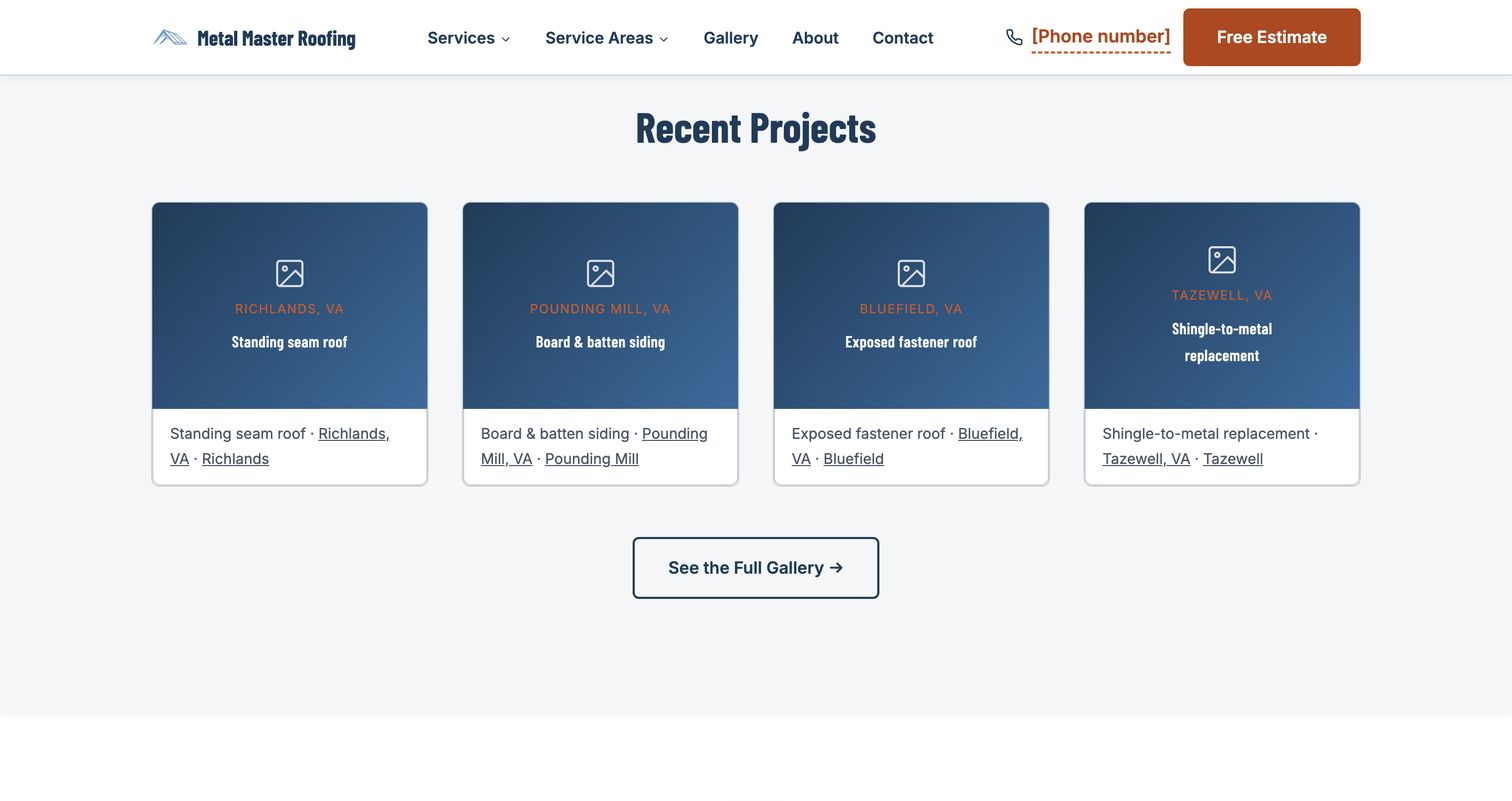
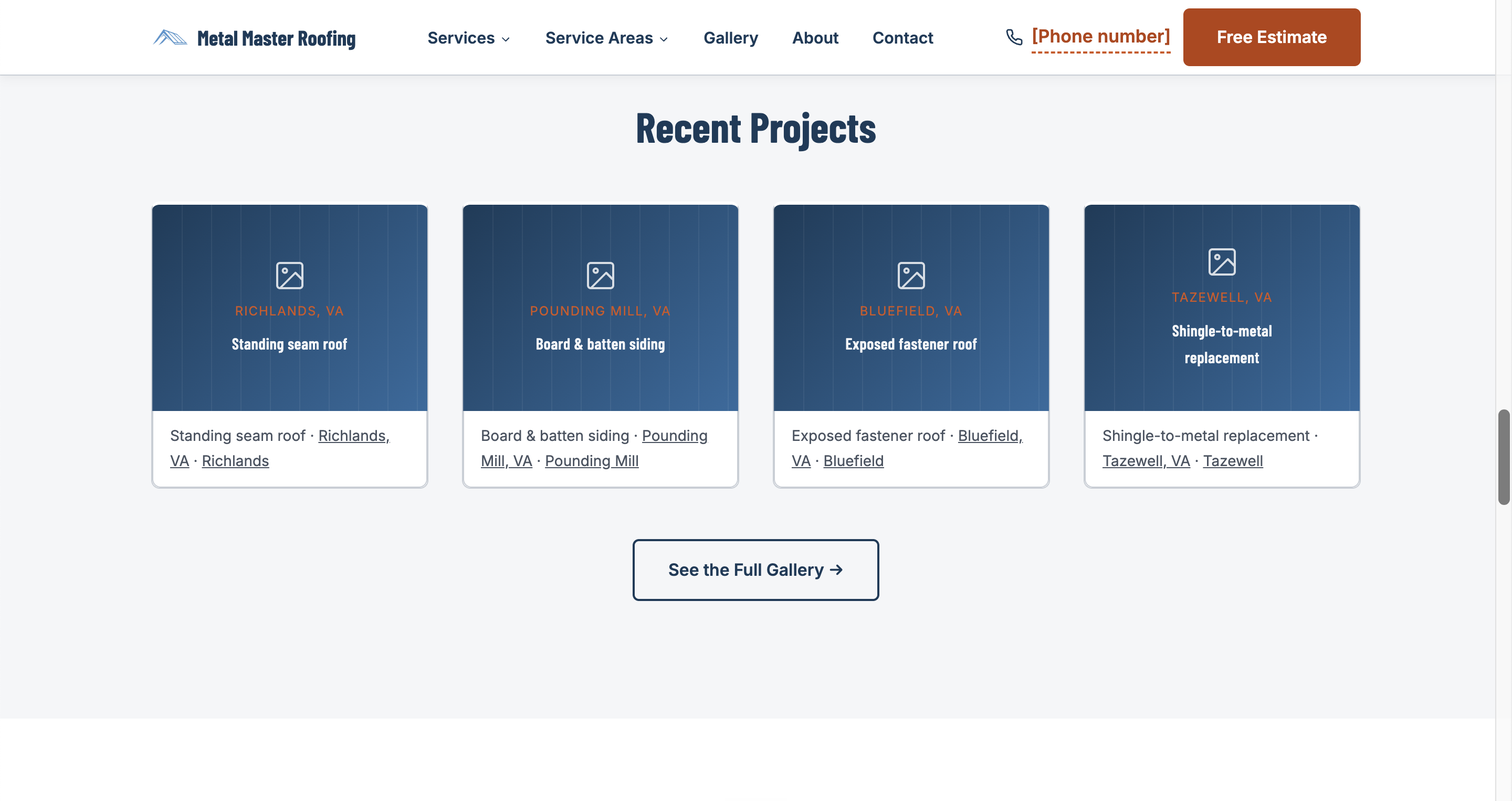
Add standing-seam texture to dark sections and photo placeholders
Reference-only design research (roofing site design conventions,
open-source landing page patterns) confirmed a real hero photo is
what actually matters and we're blocked on that pending owner photos.
In the meantime: replace flat gradient placeholders with a subtle
vertical rib-line texture evoking standing-seam metal panels, applied
to the hero, footer, and all photo placeholder cards. Ties the empty
states back to the actual product instead of reading as generic
"coming soon" boxes. Also adds an accent-colored top border on card
hover for a bit more polish.

diff --git a/site/dist/index.html b/site/dist/index.html
@@ -18,7 +18,7 @@
 <meta property="og:site_name" content="Metal Master Roofing and Construction">
 <link rel="preconnect" href="https://fonts.googleapis.com">
 <link href="https://fonts.googleapis.com/css2?family=Barlow+Condensed:wght@600;700&family=Inter:wght@400;600;700&display=swap" rel="stylesheet">
-<link rel="stylesheet" href="/css/styles.css?v=1785223712">
+<link rel="stylesheet" href="/css/styles.css?v=1785224681">
 <script type="application/ld+json">{"@context": "https://schema.org", "@type": "RoofingContractor", "@id": "https://{{DOMAIN}}/#business", "name": "Metal Master Roofing and Construction", "alternateName": "Metal Master Roofing", "url": "https://{{DOMAIN}}/", "image": "https://{{DOMAIN}}/images/og/og-default.jpg", "description": "Metal roofing, metal siding, and board and batten installation for residential and light commercial properties across Tazewell County, Virginia. Family owned, licensed and insured. Free estimates.", "sameAs": ["https://www.facebook.com/people/Metal-Master-Roofing-and-Construction/61562911080390/"], "areaServed": [{"@type": "AdministrativeArea", "name": "Tazewell County, Virginia"}, {"@type": "City", "name": "Bluefield", "addressRegion": "VA"}, {"@type": "City", "name": "Richlands", "addressRegion": "VA"}, {"@type": "City", "name": "Pounding Mill", "addressRegion": "VA"}, {"@type": "City", "name": "Tazewell", "addressRegion": "VA"}, {"@type": "City", "name": "Cedar Bluff", "addressRegion": "VA"}, {"@type": "City", "name": "North Tazewell", "addressRegion": "VA"}, {"@type": "City", "name": "Claypool Hill", "addressRegion": "VA"}, {"@type": "City", "name": "Raven", "addressRegion": "VA"}], "slogan": "Free estimates. Licensed and insured. Local."}</script>
   <script type="application/ld+json">{"@context": "https://schema.org", "@type": "WebSite", "@id": "https://{{DOMAIN}}/#website", "url": "https://{{DOMAIN}}/", "name": "Metal Master Roofing and Construction", "inLanguage": "en-US"}</script>
   <script type="application/ld+json">{"@context": "https://schema.org", "@type": "FAQPage", "mainEntity": [{"@type": "Question", "name": "How much does a metal roof cost around here?", "acceptedAnswer": {"@type": "Answer", "text": "It depends on panel type, roof pitch, and how many valleys and penetrations you've got, but we'll give you a real range on the phone and an exact written number after we measure. We don't hide behind \u201cit depends\u201d \u2014 ask us."}}, {"@type": "Question", "name": "Can you put a metal roof over my existing shingles?", "acceptedAnswer": {"@type": "Answer", "text": "Often, yes \u2014 it depends on your local code, how many layers are already up there, and the condition of the decking underneath. We'll tell you straight during the estimate whether your roof is a candidate or whether a tear-off makes more sense."}}, {"@type": "Question", "name": "How long does a metal roof last?", "acceptedAnswer": {"@type": "Answer", "text": "A properly installed metal roof in this area typically runs 40 to 70 years, depending on the panel type and finish. That's two to three asphalt roofs in the same time."}}, {"@type": "Question", "name": "Are metal roofs loud in the rain?", "acceptedAnswer": {"@type": "Answer", "text": "Not on a house. The tin-roof-in-a-thunderstorm sound people remember comes from panels screwed onto open purlins with nothing underneath, like on an old barn. On a house with solid decking and underlayment, a metal roof is about as loud as shingles."}}, {"@type": "Question", "name": "Do you do commercial work?", "acceptedAnswer": {"@type": "Answer", "text": "Yes \u2014 smaller-scale commercial, up to $150,000. Churches, shops, storefronts, small offices, and farm buildings are all in our range."}}, {"@type": "Question", "name": "How far do you travel?", "acceptedAnswer": {"@type": "Answer", "text": "We're based in the Bluefield\u2013Richlands\u2013Pounding Mill area and work throughout Tazewell County and into nearby West Virginia. If you're not sure whether you're in range, call us."}}]}</script>
@@ -335,6 +335,6 @@
     <span class="call" title="Phone not yet confirmed"><svg viewBox="0 0 24 24" fill="none" stroke="currentColor" stroke-width="2" stroke-linecap="round" stroke-linejoin="round"><path d="M22 16.92v3a2 2 0 0 1-2.18 2 19.79 19.79 0 0 1-8.63-3.07 19.5 19.5 0 0 1-6-6 19.79 19.79 0 0 1-3.07-8.67A2 2 0 0 1 4.11 2h3a2 2 0 0 1 2 1.72c.127.96.361 1.903.7 2.81a2 2 0 0 1-.45 2.11L8.09 9.91a16 16 0 0 0 6 6l1.27-1.27a2 2 0 0 1 2.11-.45c.907.339 1.85.573 2.81.7A2 2 0 0 1 22 16.92z"/></svg>Call Now</span>
     <a class="estimate" href="/free-estimate/">Free Estimate</a>
   </div>
-<script src="/js/main.js?v=1785223712" defer></script>
+<script src="/js/main.js?v=1785224681" defer></script>
 </body>
 </html>

diff --git a/site/dist/css/styles.css b/site/dist/css/styles.css
@@ -174,7 +174,14 @@ section { padding: var(--space-8) 0; }
 .header-phone svg { width: 1em; height: 1em; }
 
 /* Hero */
-.hero { position: relative; display: flex; align-items: flex-end; min-height: 60vh; color: var(--white); background: linear-gradient(rgba(20,32,47,0.82), rgba(20,32,47,0.6)), var(--navy-900); background-size: cover; background-position: center; }
+.hero {
+  position: relative; display: flex; align-items: flex-end; min-height: 60vh; color: var(--white);
+  background:
+    linear-gradient(rgba(20,32,47,0.82), rgba(20,32,47,0.6)),
+    repeating-linear-gradient(90deg, rgba(255,255,255,.05) 0, rgba(255,255,255,.05) 1px, transparent 1px, transparent 56px),
+    var(--navy-900);
+  background-size: cover, auto, cover; background-position: center;
+}
 @media (min-width: 1024px) { .hero { min-height: 75vh; } }
 .hero-inner { padding: var(--space-8) 0; width: 100%; }
 .hero h1 { color: var(--white); max-width: 900px; }
@@ -202,8 +209,8 @@ section { padding: var(--space-8) 0; }
 @media (min-width: 640px) { .grid-2 { grid-template-columns: repeat(2, 1fr); } .grid-4 { grid-template-columns: repeat(2, 1fr); } }
 @media (min-width: 1024px) { .grid-3 { grid-template-columns: repeat(3, 1fr); } .grid-4 { grid-template-columns: repeat(4, 1fr); } }
 
-.card { background: var(--white); border: 1px solid var(--steel-300); border-radius: var(--radius-lg); overflow: hidden; transition: transform 150ms ease, box-shadow 150ms ease; display: flex; flex-direction: column; }
-.card:hover { transform: translateY(-4px); box-shadow: 0 12px 24px rgba(0,0,0,.10); }
+.card { background: var(--white); border: 1px solid var(--steel-300); border-top: 3px solid transparent; border-radius: var(--radius-lg); overflow: hidden; transition: transform 150ms ease, box-shadow 150ms ease, border-top-color 150ms ease; display: flex; flex-direction: column; }
+.card:hover { transform: translateY(-4px); box-shadow: 0 12px 24px rgba(0,0,0,.10); border-top-color: var(--accent-600); }
 .card-body { padding: var(--space-5); display: flex; flex-direction: column; gap: var(--space-2); flex: 1; }
 .card h3 { margin-bottom: 0; }
 .card p { color: var(--steel-600); margin-bottom: var(--space-3); flex: 1; }
@@ -216,7 +223,9 @@ section { padding: var(--space-8) 0; }
 .photo-ph {
   aspect-ratio: 16 / 10; width: 100%; display: flex; flex-direction: column; align-items: center; justify-content: center;
   gap: var(--space-2); text-align: center; padding: var(--space-4);
-  background: linear-gradient(135deg, var(--navy-800), var(--navy-600));
+  background:
+    repeating-linear-gradient(90deg, rgba(255,255,255,.06) 0, rgba(255,255,255,.06) 1px, transparent 1px, transparent 28px),
+    linear-gradient(135deg, var(--navy-800), var(--navy-600));
   color: var(--steel-100); position: relative; overflow: hidden;
 }
 .photo-ph.ratio-4-3 { aspect-ratio: 4 / 3; }
@@ -284,7 +293,12 @@ section { padding: var(--space-8) 0; }
 .dev-banner a { color: var(--white); text-decoration: underline; }
 
 /* Footer */
-.site-footer { background: var(--navy-900); color: var(--steel-300); }
+.site-footer {
+  background:
+    repeating-linear-gradient(90deg, rgba(255,255,255,.04) 0, rgba(255,255,255,.04) 1px, transparent 1px, transparent 56px),
+    var(--navy-900);
+  color: var(--steel-300);
+}
 .footer-grid { display: grid; gap: var(--space-7); grid-template-columns: 1fr; padding: var(--space-8) 0 var(--space-6); }
 @media (min-width: 768px) { .footer-grid { grid-template-columns: 1.4fr 1fr 1fr 1fr; } }
 .footer-grid h4 { color: var(--white); font-size: 1rem; margin-bottom: var(--space-4); }

diff --git a/site/static/css/styles.css b/site/static/css/styles.css
@@ -174,7 +174,14 @@ section { padding: var(--space-8) 0; }
 .header-phone svg { width: 1em; height: 1em; }
 
 /* Hero */
-.hero { position: relative; display: flex; align-items: flex-end; min-height: 60vh; color: var(--white); background: linear-gradient(rgba(20,32,47,0.82), rgba(20,32,47,0.6)), var(--navy-900); background-size: cover; background-position: center; }
+.hero {
+  position: relative; display: flex; align-items: flex-end; min-height: 60vh; color: var(--white);
+  background:
+    linear-gradient(rgba(20,32,47,0.82), rgba(20,32,47,0.6)),
+    repeating-linear-gradient(90deg, rgba(255,255,255,.05) 0, rgba(255,255,255,.05) 1px, transparent 1px, transparent 56px),
+    var(--navy-900);
+  background-size: cover, auto, cover; background-position: center;
+}
 @media (min-width: 1024px) { .hero { min-height: 75vh; } }
 .hero-inner { padding: var(--space-8) 0; width: 100%; }
 .hero h1 { color: var(--white); max-width: 900px; }
@@ -202,8 +209,8 @@ section { padding: var(--space-8) 0; }
 @media (min-width: 640px) { .grid-2 { grid-template-columns: repeat(2, 1fr); } .grid-4 { grid-template-columns: repeat(2, 1fr); } }
 @media (min-width: 1024px) { .grid-3 { grid-template-columns: repeat(3, 1fr); } .grid-4 { grid-template-columns: repeat(4, 1fr); } }
 
-.card { background: var(--white); border: 1px solid var(--steel-300); border-radius: var(--radius-lg); overflow: hidden; transition: transform 150ms ease, box-shadow 150ms ease; display: flex; flex-direction: column; }
-.card:hover { transform: translateY(-4px); box-shadow: 0 12px 24px rgba(0,0,0,.10); }
+.card { background: var(--white); border: 1px solid var(--steel-300); border-top: 3px solid transparent; border-radius: var(--radius-lg); overflow: hidden; transition: transform 150ms ease, box-shadow 150ms ease, border-top-color 150ms ease; display: flex; flex-direction: column; }
+.card:hover { transform: translateY(-4px); box-shadow: 0 12px 24px rgba(0,0,0,.10); border-top-color: var(--accent-600); }
 .card-body { padding: var(--space-5); display: flex; flex-direction: column; gap: var(--space-2); flex: 1; }
 .card h3 { margin-bottom: 0; }
 .card p { color: var(--steel-600); margin-bottom: var(--space-3); flex: 1; }
@@ -216,7 +223,9 @@ section { padding: var(--space-8) 0; }
 .photo-ph {
   aspect-ratio: 16 / 10; width: 100%; display: flex; flex-direction: column; align-items: center; justify-content: center;
   gap: var(--space-2); text-align: center; padding: var(--space-4);
-  background: linear-gradient(135deg, var(--navy-800), var(--navy-600));
+  background:
+    repeating-linear-gradient(90deg, rgba(255,255,255,.06) 0, rgba(255,255,255,.06) 1px, transparent 1px, transparent 28px),
+    linear-gradient(135deg, var(--navy-800), var(--navy-600));
   color: var(--steel-100); position: relative; overflow: hidden;
 }
 .photo-ph.ratio-4-3 { aspect-ratio: 4 / 3; }
@@ -284,7 +293,12 @@ section { padding: var(--space-8) 0; }
 .dev-banner a { color: var(--white); text-decoration: underline; }
 
 /* Footer */
-.site-footer { background: var(--navy-900); color: var(--steel-300); }
+.site-footer {
+  background:
+    repeating-linear-gradient(90deg, rgba(255,255,255,.04) 0, rgba(255,255,255,.04) 1px, transparent 1px, transparent 56px),
+    var(--navy-900);
+  color: var(--steel-300);
+}
 .footer-grid { display: grid; gap: var(--space-7); grid-template-columns: 1fr; padding: var(--space-8) 0 var(--space-6); }
 @media (min-width: 768px) { .footer-grid { grid-template-columns: 1.4fr 1fr 1fr 1fr; } }
 .footer-grid h4 { color: var(--white); font-size: 1rem; margin-bottom: var(--space-4); }

diff --git a/site/dist/service-areas/bluefield-va/index.html b/site/dist/service-areas/bluefield-va/index.html
@@ -18,7 +18,7 @@
 <meta property="og:site_name" content="Metal Master Roofing and Construction">
 <link rel="preconnect" href="https://fonts.googleapis.com">
 <link href="https://fonts.googleapis.com/css2?family=Barlow+Condensed:wght@600;700&family=Inter:wght@400;600;700&display=swap" rel="stylesheet">
-<link rel="stylesheet" href="/css/styles.css?v=1785223712">
+<link rel="stylesheet" href="/css/styles.css?v=1785224681">
 <script type="application/ld+json">{"@context": "https://schema.org", "@type": "WebPage", "url": "https://{{DOMAIN}}/service-areas/bluefield-va/", "name": "Metal Roofing Bluefield, VA | Metal Roofs & Siding | Metal Master Roofing", "description": "Metal roofing, siding & board and batten in Bluefield, VA. Local, family owned, licensed & insured. Free estimates. Free estimates \u2014 contact us today.", "about": {"@id": "https://{{DOMAIN}}/#business"}, "isPartOf": {"@id": "https://{{DOMAIN}}/#website"}}</script>
   <script type="application/ld+json">{"@context": "https://schema.org", "@type": "BreadcrumbList", "itemListElement": [{"@type": "ListItem", "position": 1, "name": "Home", "item": "https://{{DOMAIN}}/"}, {"@type": "ListItem", "position": 2, "name": "Service Areas", "item": "https://{{DOMAIN}}/service-areas/"}, {"@type": "ListItem", "position": 3, "name": "Bluefield, VA", "item": "https://{{DOMAIN}}/service-areas/bluefield-va/"}]}</script>
   <script type="application/ld+json">{"@context": "https://schema.org", "@type": "FAQPage", "mainEntity": [{"@type": "Question", "name": "Do you serve both Bluefield, VA and Bluefield, WV?", "acceptedAnswer": {"@type": "Answer", "text": "Yes \u2014 we work both sides of the state line. See our Bluefield, WV page for that side specifically."}}, {"@type": "Question", "name": "Does Bluefield's elevation affect roofing choices?", "acceptedAnswer": {"@type": "Answer", "text": "Yes \u2014 colder temperatures and more snow make a metal roof's durability and snow-shedding surface a stronger fit than in lower, milder parts of the county."}}, {"@type": "Question", "name": "How far is Bluefield from your other service areas?", "acceptedAnswer": {"@type": "Answer", "text": "Close \u2014 we're regularly in Bluefield, Richlands, Pounding Mill, and Tazewell, all within the same general drive."}}, {"@type": "Question", "name": "Do you work on older Bluefield homes?", "acceptedAnswer": {"@type": "Answer", "text": "Yes \u2014 we regularly assess older decking and roof structures before recommending a repair or full replacement."}}]}</script>
@@ -232,6 +232,6 @@
     <span class="call" title="Phone not yet confirmed"><svg viewBox="0 0 24 24" fill="none" stroke="currentColor" stroke-width="2" stroke-linecap="round" stroke-linejoin="round"><path d="M22 16.92v3a2 2 0 0 1-2.18 2 19.79 19.79 0 0 1-8.63-3.07 19.5 19.5 0 0 1-6-6 19.79 19.79 0 0 1-3.07-8.67A2 2 0 0 1 4.11 2h3a2 2 0 0 1 2 1.72c.127.96.361 1.903.7 2.81a2 2 0 0 1-.45 2.11L8.09 9.91a16 16 0 0 0 6 6l1.27-1.27a2 2 0 0 1 2.11-.45c.907.339 1.85.573 2.81.7A2 2 0 0 1 22 16.92z"/></svg>Call Now</span>
     <a class="estimate" href="/free-estimate/">Free Estimate</a>
   </div>
-<script src="/js/main.js?v=1785223712" defer></script>
+<script src="/js/main.js?v=1785224681" defer></script>
 </body>
 </html>

diff --git a/site/dist/service-areas/richlands-va/index.html b/site/dist/service-areas/richlands-va/index.html
@@ -18,7 +18,7 @@
 <meta property="og:site_name" content="Metal Master Roofing and Construction">
 <link rel="preconnect" href="https://fonts.googleapis.com">
 <link href="https://fonts.googleapis.com/css2?family=Barlow+Condensed:wght@600;700&family=Inter:wght@400;600;700&display=swap" rel="stylesheet">
-<link rel="stylesheet" href="/css/styles.css?v=1785223712">
+<link rel="stylesheet" href="/css/styles.css?v=1785224681">
 <script type="application/ld+json">{"@context": "https://schema.org", "@type": "WebPage", "url": "https://{{DOMAIN}}/service-areas/richlands-va/", "name": "Metal Roofing Richlands, VA | Metal Roofs & Siding | Metal Master Roofing", "description": "Metal roofing, siding & board and batten in Richlands, VA. Local, family owned, licensed & insured. Free estimates. Free estimates \u2014 contact us today.", "about": {"@id": "https://{{DOMAIN}}/#business"}, "isPartOf": {"@id": "https://{{DOMAIN}}/#website"}}</script>
   <script type="application/ld+json">{"@context": "https://schema.org", "@type": "BreadcrumbList", "itemListElement": [{"@type": "ListItem", "position": 1, "name": "Home", "item": "https://{{DOMAIN}}/"}, {"@type": "ListItem", "position": 2, "name": "Service Areas", "item": "https://{{DOMAIN}}/service-areas/"}, {"@type": "ListItem", "position": 3, "name": "Richlands, VA", "item": "https://{{DOMAIN}}/service-areas/richlands-va/"}]}</script>
   <script type="application/ld+json">{"@context": "https://schema.org", "@type": "FAQPage", "mainEntity": [{"@type": "Question", "name": "Does the river valley affect roofing in Richlands?", "acceptedAnswer": {"@type": "Answer", "text": "Yes \u2014 higher humidity and morning fog are harder on aging roofs than in higher, drier parts of the county, which is part of why we check decking condition closely here."}}, {"@type": "Question", "name": "Do you work on older coal-era homes in Richlands?", "acceptedAnswer": {"@type": "Answer", "text": "Regularly \u2014 a lot of Richlands housing dates to that era, and we know what to look for underneath."}}, {"@type": "Question", "name": "Do you do commercial work near the hospital corridor?", "acceptedAnswer": {"@type": "Answer", "text": "Yes \u2014 small commercial and storefront roofing up to $150,000."}}, {"@type": "Question", "name": "How far is Richlands from your home base?", "acceptedAnswer": {"@type": "Answer", "text": "About twenty minutes from Pounding Mill \u2014 we're in Richlands constantly."}}]}</script>
@@ -229,6 +229,6 @@
     <span class="call" title="Phone not yet confirmed"><svg viewBox="0 0 24 24" fill="none" stroke="currentColor" stroke-width="2" stroke-linecap="round" stroke-linejoin="round"><path d="M22 16.92v3a2 2 0 0 1-2.18 2 19.79 19.79 0 0 1-8.63-3.07 19.5 19.5 0 0 1-6-6 19.79 19.79 0 0 1-3.07-8.67A2 2 0 0 1 4.11 2h3a2 2 0 0 1 2 1.72c.127.96.361 1.903.7 2.81a2 2 0 0 1-.45 2.11L8.09 9.91a16 16 0 0 0 6 6l1.27-1.27a2 2 0 0 1 2.11-.45c.907.339 1.85.573 2.81.7A2 2 0 0 1 22 16.92z"/></svg>Call Now</span>
     <a class="estimate" href="/free-estimate/">Free Estimate</a>
   </div>
-<script src="/js/main.js?v=1785223712" defer></script>
+<script src="/js/main.js?v=1785224681" defer></script>
 </body>
 </html>

diff --git a/site/dist/service-areas/pounding-mill-va/index.html b/site/dist/service-areas/pounding-mill-va/index.html
@@ -18,7 +18,7 @@
 <meta property="og:site_name" content="Metal Master Roofing and Construction">
 <link rel="preconnect" href="https://fonts.googleapis.com">
 <link href="https://fonts.googleapis.com/css2?family=Barlow+Condensed:wght@600;700&family=Inter:wght@400;600;700&display=swap" rel="stylesheet">
-<link rel="stylesheet" href="/css/styles.css?v=1785223712">
+<link rel="stylesheet" href="/css/styles.css?v=1785224681">
 <script type="application/ld+json">{"@context": "https://schema.org", "@type": "WebPage", "url": "https://{{DOMAIN}}/service-areas/pounding-mill-va/", "name": "Metal Roofing Pounding Mill, VA | Metal Roofs & Siding | Metal Master Roofing", "description": "Metal roofing, siding & board and batten in Pounding Mill, VA. Local, family owned, licensed & insured. Free estimates. Free estimates \u2014 contact us today.", "about": {"@id": "https://{{DOMAIN}}/#business"}, "isPartOf": {"@id": "https://{{DOMAIN}}/#website"}}</script>
   <script type="application/ld+json">{"@context": "https://schema.org", "@type": "BreadcrumbList", "itemListElement": [{"@type": "ListItem", "position": 1, "name": "Home", "item": "https://{{DOMAIN}}/"}, {"@type": "ListItem", "position": 2, "name": "Service Areas", "item": "https://{{DOMAIN}}/service-areas/"}, {"@type": "ListItem", "position": 3, "name": "Pounding Mill, VA", "item": "https://{{DOMAIN}}/service-areas/pounding-mill-va/"}]}</script>
   <script type="application/ld+json">{"@context": "https://schema.org", "@type": "FAQPage", "mainEntity": [{"@type": "Question", "name": "Is Pounding Mill really where you're based?", "acceptedAnswer": {"@type": "Answer", "text": "Yes \u2014 this is our home base, not just a service area."}}, {"@type": "Question", "name": "Do you do pole barns and outbuildings here?", "acceptedAnswer": {"@type": "Answer", "text": "Yes \u2014 it's a natural fit for the rural, agricultural properties around Pounding Mill."}}, {"@type": "Question", "name": "What roofing works best for barns and outbuildings?", "acceptedAnswer": {"@type": "Answer", "text": "Exposed-fastener ag panel is the common, cost-effective choice \u2014 we'll walk you through the tradeoffs against standing seam."}}, {"@type": "Question", "name": "How fast can you respond in Pounding Mill?", "acceptedAnswer": {"@type": "Answer", "text": "Faster than almost anywhere else we work, since we're right here."}}]}</script>
@@ -228,6 +228,6 @@
     <span class="call" title="Phone not yet confirmed"><svg viewBox="0 0 24 24" fill="none" stroke="currentColor" stroke-width="2" stroke-linecap="round" stroke-linejoin="round"><path d="M22 16.92v3a2 2 0 0 1-2.18 2 19.79 19.79 0 0 1-8.63-3.07 19.5 19.5 0 0 1-6-6 19.79 19.79 0 0 1-3.07-8.67A2 2 0 0 1 4.11 2h3a2 2 0 0 1 2 1.72c.127.96.361 1.903.7 2.81a2 2 0 0 1-.45 2.11L8.09 9.91a16 16 0 0 0 6 6l1.27-1.27a2 2 0 0 1 2.11-.45c.907.339 1.85.573 2.81.7A2 2 0 0 1 22 16.92z"/></svg>Call Now</span>
     <a class="estimate" href="/free-estimate/">Free Estimate</a>
   </div>
-<script src="/js/main.js?v=1785223712" defer></script>
+<script src="/js/main.js?v=1785224681" defer></script>
 </body>
 </html>

diff --git a/site/dist/service-areas/tazewell-va/index.html b/site/dist/service-areas/tazewell-va/index.html
@@ -18,7 +18,7 @@
 <meta property="og:site_name" content="Metal Master Roofing and Construction">
 <link rel="preconnect" href="https://fonts.googleapis.com">
 <link href="https://fonts.googleapis.com/css2?family=Barlow+Condensed:wght@600;700&family=Inter:wght@400;600;700&display=swap" rel="stylesheet">
-<link rel="stylesheet" href="/css/styles.css?v=1785223712">
+<link rel="stylesheet" href="/css/styles.css?v=1785224681">
 <script type="application/ld+json">{"@context": "https://schema.org", "@type": "WebPage", "url": "https://{{DOMAIN}}/service-areas/tazewell-va/", "name": "Metal Roofing Tazewell, VA | Metal Roofs & Siding | Metal Master Roofing", "description": "Metal roofing, siding & board and batten in Tazewell, VA. Local, family owned, licensed & insured. Free estimates. Free estimates \u2014 contact us today.", "about": {"@id": "https://{{DOMAIN}}/#business"}, "isPartOf": {"@id": "https://{{DOMAIN}}/#website"}}</script>
   <script type="application/ld+json">{"@context": "https://schema.org", "@type": "BreadcrumbList", "itemListElement": [{"@type": "ListItem", "position": 1, "name": "Home", "item": "https://{{DOMAIN}}/"}, {"@type": "ListItem", "position": 2, "name": "Service Areas", "item": "https://{{DOMAIN}}/service-areas/"}, {"@type": "ListItem", "position": 3, "name": "Tazewell, VA", "item": "https://{{DOMAIN}}/service-areas/tazewell-va/"}]}</script>
   <script type="application/ld+json">{"@context": "https://schema.org", "@type": "FAQPage", "mainEntity": [{"@type": "Question", "name": "Do you work on historic homes near the courthouse?", "acceptedAnswer": {"@type": "Answer", "text": "Yes \u2014 and we'll talk through which roofing profile looks right on an older house, not just what's cheapest."}}, {"@type": "Question", "name": "Does Tazewell get more snow than other towns you serve?", "acceptedAnswer": {"@type": "Answer", "text": "Generally yes, given the elevation \u2014 it's a factor in what we recommend."}}, {"@type": "Question", "name": "Do you serve Burke's Garden?", "acceptedAnswer": {"@type": "Answer", "text": "It's within our general area \u2014 call to confirm for your specific location."}}, {"@type": "Question", "name": "What roofing profile suits a historic-style home?", "acceptedAnswer": {"@type": "Answer", "text": "Standing seam's clean, traditional look is usually the better fit over an ag-panel profile."}}]}</script>
@@ -228,6 +228,6 @@
     <span class="call" title="Phone not yet confirmed"><svg viewBox="0 0 24 24" fill="none" stroke="currentColor" stroke-width="2" stroke-linecap="round" stroke-linejoin="round"><path d="M22 16.92v3a2 2 0 0 1-2.18 2 19.79 19.79 0 0 1-8.63-3.07 19.5 19.5 0 0 1-6-6 19.79 19.79 0 0 1-3.07-8.67A2 2 0 0 1 4.11 2h3a2 2 0 0 1 2 1.72c.127.96.361 1.903.7 2.81a2 2 0 0 1-.45 2.11L8.09 9.91a16 16 0 0 0 6 6l1.27-1.27a2 2 0 0 1 2.11-.45c.907.339 1.85.573 2.81.7A2 2 0 0 1 22 16.92z"/></svg>Call Now</span>
     <a class="estimate" href="/free-estimate/">Free Estimate</a>
   </div>
-<script src="/js/main.js?v=1785223712" defer></script>
+<script src="/js/main.js?v=1785224681" defer></script>
 </body>
 </html>

diff --git a/site/dist/free-estimate/index.html b/site/dist/free-estimate/index.html
@@ -18,7 +18,7 @@
 <meta property="og:site_name" content="Metal Master Roofing and Construction">
 <link rel="preconnect" href="https://fonts.googleapis.com">
 <link href="https://fonts.googleapis.com/css2?family=Barlow+Condensed:wght@600;700&family=Inter:wght@400;600;700&display=swap" rel="stylesheet">
-<link rel="stylesheet" href="/css/styles.css?v=1785223712">
+<link rel="stylesheet" href="/css/styles.css?v=1785224681">
 <script type="application/ld+json">{"@context": "https://schema.org", "@type": "WebPage", "url": "https://{{DOMAIN}}/free-estimate/", "name": "Free Metal Roof Estimate | Tazewell County VA | Metal Master Roofing", "description": "Get a free, no-pressure estimate on a metal roof, siding, or board and batten. Licensed & insured, family owned, serving Tazewell County VA. Free estimates \u2014 contact us today.", "about": {"@id": "https://{{DOMAIN}}/#business"}, "isPartOf": {"@id": "https://{{DOMAIN}}/#website"}}</script>
   <script type="application/ld+json">{"@context": "https://schema.org", "@type": "BreadcrumbList", "itemListElement": [{"@type": "ListItem", "position": 1, "name": "Home", "item": "https://{{DOMAIN}}/"}, {"@type": "ListItem", "position": 2, "name": "Free Estimate", "item": "https://{{DOMAIN}}/free-estimate/"}]}</script>
   <script type="application/ld+json">{"@context": "https://schema.org", "@type": "FAQPage", "mainEntity": [{"@type": "Question", "name": "Is the estimate really free?", "acceptedAnswer": {"@type": "Answer", "text": "Yes. Always. No strings attached."}}, {"@type": "Question", "name": "Do I have to be home?", "acceptedAnswer": {"@type": "Answer", "text": "Usually yes for the walkthrough, so we can talk through what we find \u2014 we'll confirm details when we schedule."}}, {"@type": "Question", "name": "How long does it take to get an estimate?", "acceptedAnswer": {"@type": "Answer", "text": "We'll give you a specific window when we schedule the visit \u2014 it depends on our current schedule and your location."}}]}</script>
@@ -181,6 +181,6 @@
     <span class="call" title="Phone not yet confirmed"><svg viewBox="0 0 24 24" fill="none" stroke="currentColor" stroke-width="2" stroke-linecap="round" stroke-linejoin="round"><path d="M22 16.92v3a2 2 0 0 1-2.18 2 19.79 19.79 0 0 1-8.63-3.07 19.5 19.5 0 0 1-6-6 19.79 19.79 0 0 1-3.07-8.67A2 2 0 0 1 4.11 2h3a2 2 0 0 1 2 1.72c.127.96.361 1.903.7 2.81a2 2 0 0 1-.45 2.11L8.09 9.91a16 16 0 0 0 6 6l1.27-1.27a2 2 0 0 1 2.11-.45c.907.339 1.85.573 2.81.7A2 2 0 0 1 22 16.92z"/></svg>Call Now</span>
     <a class="estimate" href="/free-estimate/">Free Estimate</a>
   </div>
-<script src="/js/main.js?v=1785223712" defer></script>
+<script src="/js/main.js?v=1785224681" defer></script>
 </body>
 </html>

diff --git a/site/dist/services/metal-roofing/index.html b/site/dist/services/metal-roofing/index.html
@@ -18,7 +18,7 @@
 <meta property="og:site_name" content="Metal Master Roofing and Construction">
 <link rel="preconnect" href="https://fonts.googleapis.com">
 <link href="https://fonts.googleapis.com/css2?family=Barlow+Condensed:wght@600;700&family=Inter:wght@400;600;700&display=swap" rel="stylesheet">
-<link rel="stylesheet" href="/css/styles.css?v=1785223712">
+<link rel="stylesheet" href="/css/styles.css?v=1785224681">
 <script type="application/ld+json">{"@context": "https://schema.org", "@type": "Service", "serviceType": "Metal Roof Installation", "name": "Metal Roofing in Bluefield, VA and Across Tazewell County", "description": "Metal roof installation across Bluefield, Richlands, Pounding Mill & Tazewell County VA. Standing seam & exposed fastener. Licensed, insured, free estimates. Free estimates \u2014 contact us today.", "provider": {"@id": "https://{{DOMAIN}}/#business"}, "url": "https://{{DOMAIN}}/services/metal-roofing/"}</script>
   <script type="application/ld+json">{"@context": "https://schema.org", "@type": "WebPage", "url": "https://{{DOMAIN}}/services/metal-roofing/", "name": "Metal Roofing Bluefield VA | Metal Roof Installation | Metal Master", "description": "Metal roof installation across Bluefield, Richlands, Pounding Mill & Tazewell County VA. Standing seam & exposed fastener. Licensed, insured, free estimates. Free estimates \u2014 contact us today.", "about": {"@id": "https://{{DOMAIN}}/#business"}, "isPartOf": {"@id": "https://{{DOMAIN}}/#website"}}</script>
   <script type="application/ld+json">{"@context": "https://schema.org", "@type": "BreadcrumbList", "itemListElement": [{"@type": "ListItem", "position": 1, "name": "Home", "item": "https://{{DOMAIN}}/"}, {"@type": "ListItem", "position": 2, "name": "Services", "item": "https://{{DOMAIN}}/services/"}, {"@type": "ListItem", "position": 3, "name": "Metal Roofing in Bluefield, VA and Across Tazewell County", "item": "https://{{DOMAIN}}/services/metal-roofing/"}]}</script>
@@ -226,6 +226,6 @@
     <span class="call" title="Phone not yet confirmed"><svg viewBox="0 0 24 24" fill="none" stroke="currentColor" stroke-width="2" stroke-linecap="round" stroke-linejoin="round"><path d="M22 16.92v3a2 2 0 0 1-2.18 2 19.79 19.79 0 0 1-8.63-3.07 19.5 19.5 0 0 1-6-6 19.79 19.79 0 0 1-3.07-8.67A2 2 0 0 1 4.11 2h3a2 2 0 0 1 2 1.72c.127.96.361 1.903.7 2.81a2 2 0 0 1-.45 2.11L8.09 9.91a16 16 0 0 0 6 6l1.27-1.27a2 2 0 0 1 2.11-.45c.907.339 1.85.573 2.81.7A2 2 0 0 1 22 16.92z"/></svg>Call Now</span>
     <a class="estimate" href="/free-estimate/">Free Estimate</a>
   </div>
-<script src="/js/main.js?v=1785223712" defer></script>
+<script src="/js/main.js?v=1785224681" defer></script>
 </body>
 </html>

diff --git a/site/dist/services/board-and-batten-metal-siding/index.html b/site/dist/services/board-and-batten-metal-siding/index.html
@@ -18,7 +18,7 @@
 <meta property="og:site_name" content="Metal Master Roofing and Construction">
 <link rel="preconnect" href="https://fonts.googleapis.com">
 <link href="https://fonts.googleapis.com/css2?family=Barlow+Condensed:wght@600;700&family=Inter:wght@400;600;700&display=swap" rel="stylesheet">
-<link rel="stylesheet" href="/css/styles.css?v=1785223712">
+<link rel="stylesheet" href="/css/styles.css?v=1785224681">
 <script type="application/ld+json">{"@context": "https://schema.org", "@type": "Service", "serviceType": "Board and Batten Metal Siding Installation", "name": "Board & Batten Metal Siding", "description": "Board and batten metal siding installation across southwest Virginia. The farmhouse look in steel \u2014 no rot, no repainting. Free estimates \u2014 contact us today.", "provider": {"@id": "https://{{DOMAIN}}/#business"}, "url": "https://{{DOMAIN}}/services/board-and-batten-metal-siding/"}</script>
   <script type="application/ld+json">{"@context": "https://schema.org", "@type": "WebPage", "url": "https://{{DOMAIN}}/services/board-and-batten-metal-siding/", "name": "Board & Batten Metal Siding | Tazewell County VA | Metal Master", "description": "Board and batten metal siding installation across southwest Virginia. The farmhouse look in steel \u2014 no rot, no repainting. Free estimates \u2014 contact us today.", "about": {"@id": "https://{{DOMAIN}}/#business"}, "isPartOf": {"@id": "https://{{DOMAIN}}/#website"}}</script>
   <script type="application/ld+json">{"@context": "https://schema.org", "@type": "BreadcrumbList", "itemListElement": [{"@type": "ListItem", "position": 1, "name": "Home", "item": "https://{{DOMAIN}}/"}, {"@type": "ListItem", "position": 2, "name": "Services", "item": "https://{{DOMAIN}}/services/"}, {"@type": "ListItem", "position": 3, "name": "Board & Batten Metal Siding", "item": "https://{{DOMAIN}}/services/board-and-batten-metal-siding/"}]}</script>
@@ -209,6 +209,6 @@
     <span class="call" title="Phone not yet confirmed"><svg viewBox="0 0 24 24" fill="none" stroke="currentColor" stroke-width="2" stroke-linecap="round" stroke-linejoin="round"><path d="M22 16.92v3a2 2 0 0 1-2.18 2 19.79 19.79 0 0 1-8.63-3.07 19.5 19.5 0 0 1-6-6 19.79 19.79 0 0 1-3.07-8.67A2 2 0 0 1 4.11 2h3a2 2 0 0 1 2 1.72c.127.96.361 1.903.7 2.81a2 2 0 0 1-.45 2.11L8.09 9.91a16 16 0 0 0 6 6l1.27-1.27a2 2 0 0 1 2.11-.45c.907.339 1.85.573 2.81.7A2 2 0 0 1 22 16.92z"/></svg>Call Now</span>
     <a class="estimate" href="/free-estimate/">Free Estimate</a>
   </div>
-<script src="/js/main.js?v=1785223712" defer></script>
+<script src="/js/main.js?v=1785224681" defer></script>
 </body>
 </html>

diff --git a/site/dist/services/metal-roof-replacement/index.html b/site/dist/services/metal-roof-replacement/index.html
@@ -18,7 +18,7 @@
 <meta property="og:site_name" content="Metal Master Roofing and Construction">
 <link rel="preconnect" href="https://fonts.googleapis.com">
 <link href="https://fonts.googleapis.com/css2?family=Barlow+Condensed:wght@600;700&family=Inter:wght@400;600;700&display=swap" rel="stylesheet">
-<link rel="stylesheet" href="/css/styles.css?v=1785223712">
+<link rel="stylesheet" href="/css/styles.css?v=1785224681">
 <script type="application/ld+json">{"@context": "https://schema.org", "@type": "Service", "serviceType": "Metal Roof Replacement", "name": "Roof Replacement \u2014 Shingles to Metal", "description": "Replacing an old shingle roof with metal in Tazewell County VA. Tear-off or go-over, done right, cleaned up. Free estimates \u2014 contact us today.", "provider": {"@id": "https://{{DOMAIN}}/#business"}, "url": "https://{{DOMAIN}}/services/metal-roof-replacement/"}</script>
   <script type="application/ld+json">{"@context": "https://schema.org", "@type": "WebPage", "url": "https://{{DOMAIN}}/services/metal-roof-replacement/", "name": "Metal Roof Replacement | Shingle to Metal | Tazewell County VA", "description": "Replacing an old shingle roof with metal in Tazewell County VA. Tear-off or go-over, done right, cleaned up. Free estimates \u2014 contact us today.", "about": {"@id": "https://{{DOMAIN}}/#business"}, "isPartOf": {"@id": "https://{{DOMAIN}}/#website"}}</script>
   <script type="application/ld+json">{"@context": "https://schema.org", "@type": "BreadcrumbList", "itemListElement": [{"@type": "ListItem", "position": 1, "name": "Home", "item": "https://{{DOMAIN}}/"}, {"@type": "ListItem", "position": 2, "name": "Services", "item": "https://{{DOMAIN}}/services/"}, {"@type": "ListItem", "position": 3, "name": "Roof Replacement \u2014 Shingles to Metal", "item": "https://{{DOMAIN}}/services/metal-roof-replacement/"}]}</script>
@@ -204,6 +204,6 @@
     <span class="call" title="Phone not yet confirmed"><svg viewBox="0 0 24 24" fill="none" stroke="currentColor" stroke-width="2" stroke-linecap="round" stroke-linejoin="round"><path d="M22 16.92v3a2 2 0 0 1-2.18 2 19.79 19.79 0 0 1-8.63-3.07 19.5 19.5 0 0 1-6-6 19.79 19.79 0 0 1-3.07-8.67A2 2 0 0 1 4.11 2h3a2 2 0 0 1 2 1.72c.127.96.361 1.903.7 2.81a2 2 0 0 1-.45 2.11L8.09 9.91a16 16 0 0 0 6 6l1.27-1.27a2 2 0 0 1 2.11-.45c.907.339 1.85.573 2.81.7A2 2 0 0 1 22 16.92z"/></svg>Call Now</span>
     <a class="estimate" href="/free-estimate/">Free Estimate</a>
   </div>
-<script src="/js/main.js?v=1785223712" defer></script>
+<script src="/js/main.js?v=1785224681" defer></script>
 </body>
 </html>

diff --git a/site/dist/services/standing-seam-metal-roofing/index.html b/site/dist/services/standing-seam-metal-roofing/index.html
@@ -18,7 +18,7 @@
 <meta property="og:site_name" content="Metal Master Roofing and Construction">
 <link rel="preconnect" href="https://fonts.googleapis.com">
 <link href="https://fonts.googleapis.com/css2?family=Barlow+Condensed:wght@600;700&family=Inter:wght@400;600;700&display=swap" rel="stylesheet">
-<link rel="stylesheet" href="/css/styles.css?v=1785223712">
+<link rel="stylesheet" href="/css/styles.css?v=1785224681">
 <script type="application/ld+json">{"@context": "https://schema.org", "@type": "Service", "serviceType": "Standing Seam Metal Roof Installation", "name": "Standing Seam Metal Roofing", "description": "Standing seam metal roofing installation in Tazewell County VA. Concealed fasteners, premium durability. Free estimates \u2014 contact us today.", "provider": {"@id": "https://{{DOMAIN}}/#business"}, "url": "https://{{DOMAIN}}/services/standing-seam-metal-roofing/"}</script>
   <script type="application/ld+json">{"@context": "https://schema.org", "@type": "WebPage", "url": "https://{{DOMAIN}}/services/standing-seam-metal-roofing/", "name": "Standing Seam Metal Roof Installation | Southwest Virginia", "description": "Standing seam metal roofing installation in Tazewell County VA. Concealed fasteners, premium durability. Free estimates \u2014 contact us today.", "about": {"@id": "https://{{DOMAIN}}/#business"}, "isPartOf": {"@id": "https://{{DOMAIN}}/#website"}}</script>
   <script type="application/ld+json">{"@context": "https://schema.org", "@type": "BreadcrumbList", "itemListElement": [{"@type": "ListItem", "position": 1, "name": "Home", "item": "https://{{DOMAIN}}/"}, {"@type": "ListItem", "position": 2, "name": "Services", "item": "https://{{DOMAIN}}/services/"}, {"@type": "ListItem", "position": 3, "name": "Standing Seam Metal Roofing", "item": "https://{{DOMAIN}}/services/standing-seam-metal-roofing/"}]}</script>
@@ -204,6 +204,6 @@
     <span class="call" title="Phone not yet confirmed"><svg viewBox="0 0 24 24" fill="none" stroke="currentColor" stroke-width="2" stroke-linecap="round" stroke-linejoin="round"><path d="M22 16.92v3a2 2 0 0 1-2.18 2 19.79 19.79 0 0 1-8.63-3.07 19.5 19.5 0 0 1-6-6 19.79 19.79 0 0 1-3.07-8.67A2 2 0 0 1 4.11 2h3a2 2 0 0 1 2 1.72c.127.96.361 1.903.7 2.81a2 2 0 0 1-.45 2.11L8.09 9.91a16 16 0 0 0 6 6l1.27-1.27a2 2 0 0 1 2.11-.45c.907.339 1.85.573 2.81.7A2 2 0 0 1 22 16.92z"/></svg>Call Now</span>
     <a class="estimate" href="/free-estimate/">Free Estimate</a>
   </div>
-<script src="/js/main.js?v=1785223712" defer></script>
+<script src="/js/main.js?v=1785224681" defer></script>
 </body>
 </html>
